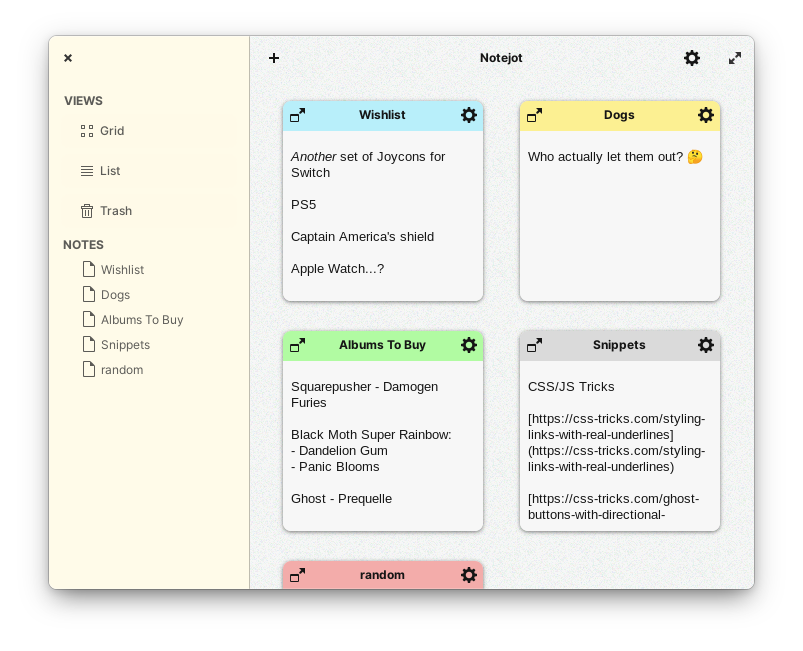
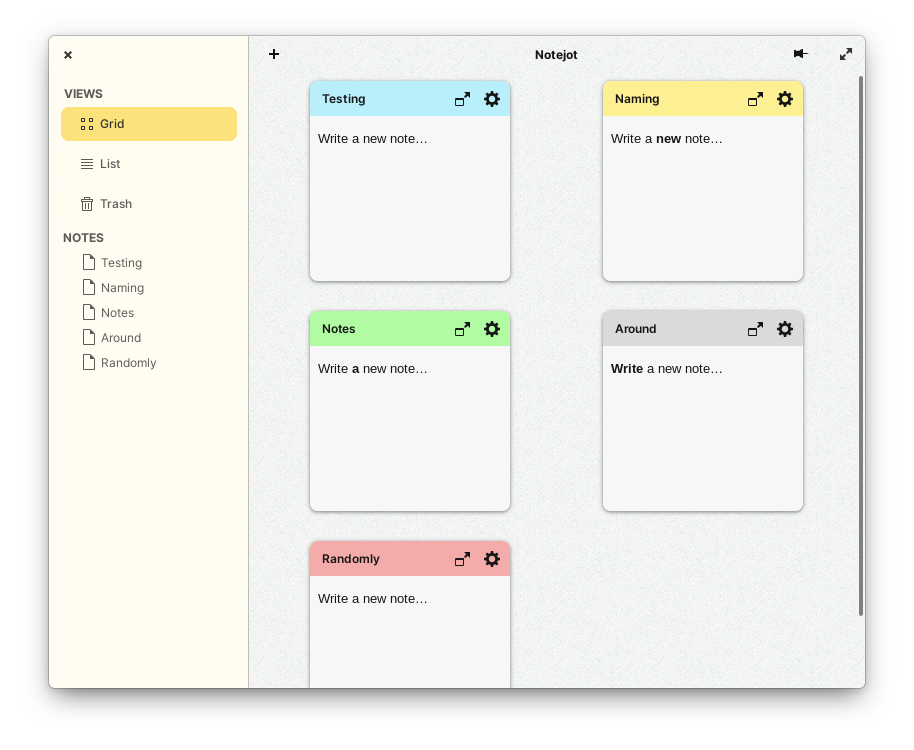
* - soften sidebar bg color

Changed region(s): [[0.0311, 0.0307, 0.9651, 0.9524], [0.2491, 0.0307, 0.3113, 0.0922], [0.5915, 0.0614, 0.6538, 0.0922]]

diff --git a/data/app.css b/data/app.css
@@ -126,7 +126,7 @@ window.rounded {
 }
 
 .notejot-tview text selection {
-    background: shade(mix (@accent_color, @base_color, 0.85), 0.88);
+    background: shade(mix (@accent_color, @base_color, 0.90), 0.88);
     color: @fg_color;
 }
 
@@ -182,7 +182,7 @@ window.rounded {
 
 .notejot-column,
 .notejot-column treeview {
-    background: mix (@accent_color, @base_color, 0.85);
+    background: mix (@accent_color, @base_color, 0.90);
     box-shadow: none;
 }
 
@@ -216,7 +216,7 @@ window.rounded {
 }
 
 .notejot-side-tbar {
-    background: mix (@accent_color, @base_color, 0.85);
+    background: mix (@accent_color, @base_color, 0.90);
     box-shadow: none;
     margin: 0 7px;
     padding: 0;
@@ -282,13 +282,13 @@ window.rounded {
 .notejot-note-list:focus,
 .notejot-note-list:hover {
     border-radius: 8px;
-    background-color: shade(mix (@accent_color, @base_color, 0.85), 0.88);
+    background-color: shade(mix (@accent_color, @base_color, 0.90), 0.88);
     color: @fg_color;
 }
 
 .notejot-side-button {
-    background: mix (@accent_color, @base_color, 0.85);
-    border: 1px solid mix (@accent_color, @base_color, 0.85);
+    background: mix (@accent_color, @base_color, 0.90);
+    border: 1px solid mix (@accent_color, @base_color, 0.90);
     box-shadow: none;
     padding: 8px;
     margin: 0;
